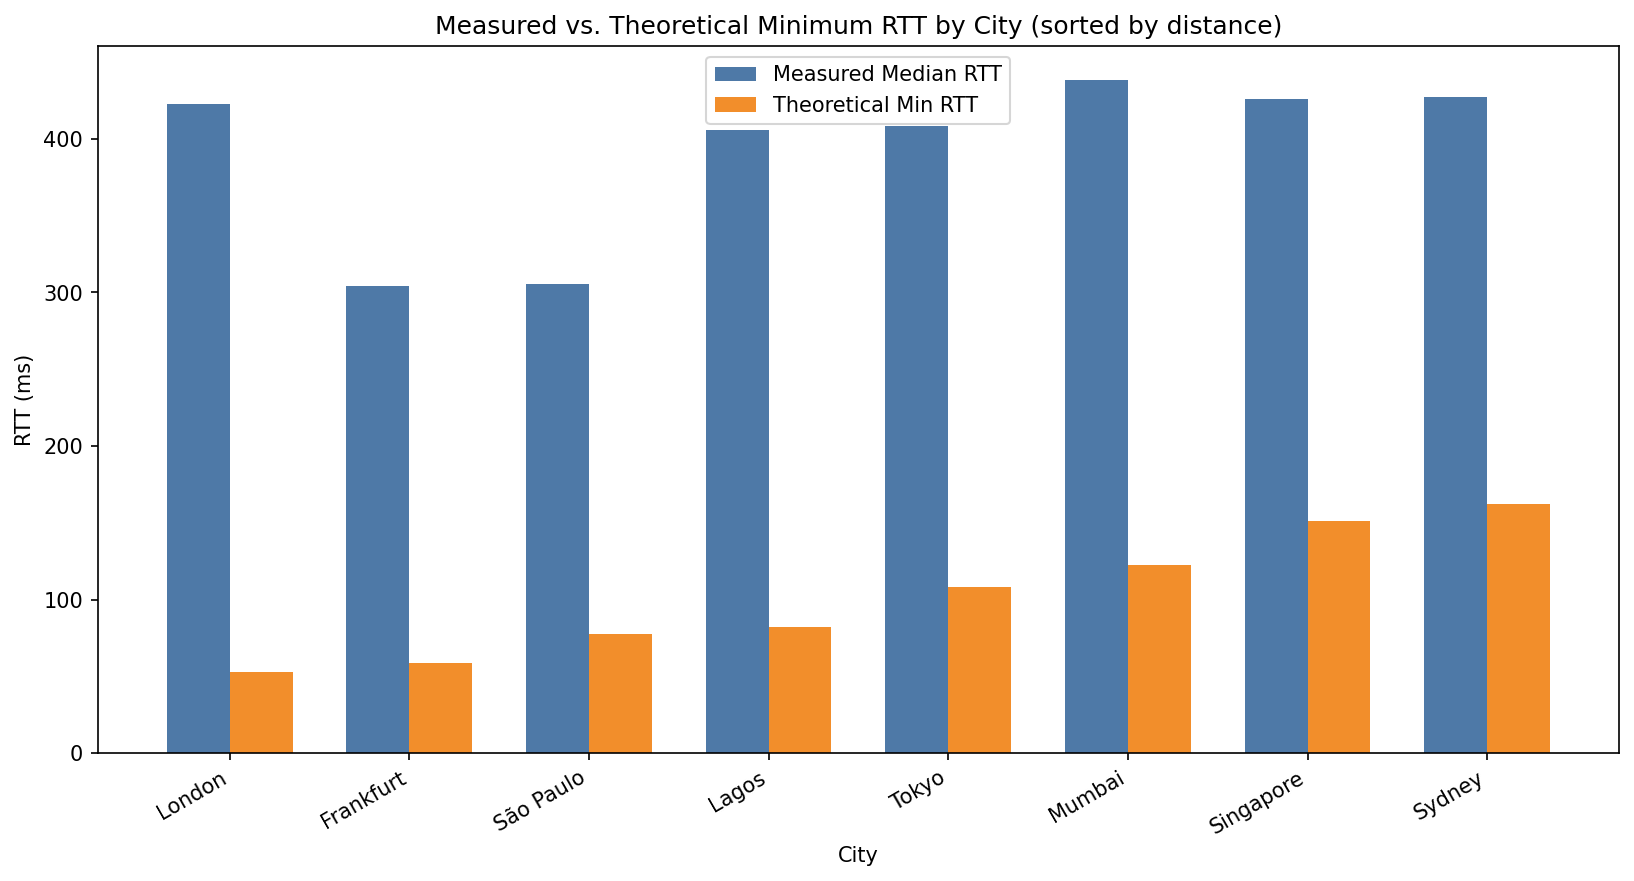
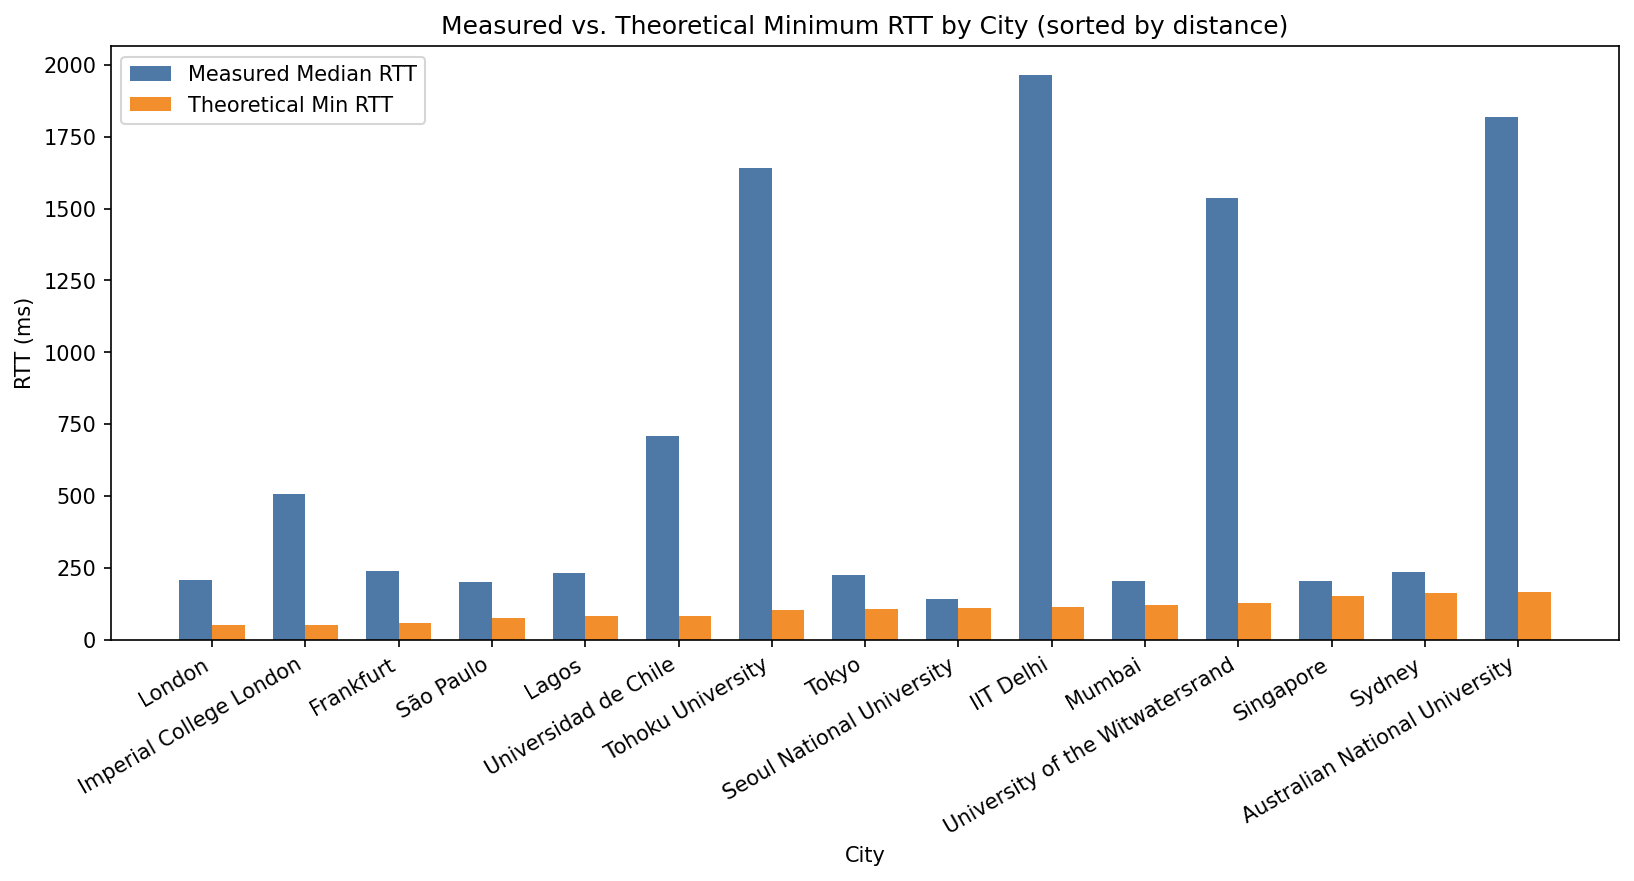
adding university targets

diff --git a/rtt_speedoflight.py b/rtt_speedoflight.py
@@ -25,6 +25,16 @@ TARGETS = {
     "Mumbai":       {"url": "http://www.google.co.in",   "coords": (19.0760,   72.8777), "continent": "Asia"},
     "London":       {"url": "http://www.google.co.uk",   "coords": (51.5074,   -0.1278), "continent": "Europe"},
     "Singapore":    {"url": "http://www.google.com.sg",  "coords": (1.3521,   103.8198), "continent": "Asia"},
+    
+    # Add Universities
+    "Tohoku University":              {"url": "http://www.tohoku.ac.jp",  "coords": (38.2682,  140.8694), "continent": "Asia"},
+    "Seoul National University":      {"url": "http://www.snu.ac.kr",     "coords": (37.5665,  126.9780), "continent": "Asia"},
+    "IIT Delhi":                      {"url": "http://www.iitd.ac.in",    "coords": (28.6139,   77.2090), "continent": "Asia"},
+    "Universidad de Chile":           {"url": "http://www.uchile.cl",     "coords": (-33.4489, -70.6693), "continent": "S. America"},
+    "University of the Witwatersrand":{"url": "http://www.wits.ac.za",    "coords": (-26.2041,  28.0473), "continent": "Africa"},
+    "Freie Universität Berlin":       {"url": "http://www.fu-berlin.de",  "coords": (52.5200,   13.4050), "continent": "Europe"},
+    "Imperial College London":        {"url": "http://www.imperial.ac.uk","coords": (51.5074,   -0.1278), "continent": "Europe"},
+    "Australian National University": {"url": "http://www.anu.edu.au",    "coords": (-35.2809, 149.1300), "continent": "Oceania"},
 }
 
 PROBES           = 15

diff --git a/analysis.md b/analysis.md
@@ -2,15 +2,17 @@
 
 ## Q1: Highest Inefficiency Ratio
 
-Lagos, Nigeria had the highest inefficiency ratio in my measurements. Looking up Lagos on [submarinecablemap.com](https://submarinecablemap.com), the cables serving West Africa include: SAT-3/WASC, MainOne, ACE (Africa Coast to Europe), WACS (West Africa Cable System). 
+Frankfurt (google.de) had the highest inefficiency ratio for **city**. Despite transatlantic fiber being well-developed, traffic from Somerville to Frankfurt still traverses multiple backbone segments and exchange points across the Atlantic and into Europe, adding significant queuing and routing overhead relative to the short great-circle distance of ~5,900 km.
 
-All of these cables land Lagos traffic in Europe first, adding thousands of kilometers to what could be a more direct Atlantic route. This continental detour directly explains the high inefficiency ratio.
+Including universities, IIT Delhi had the highest overall inefficiency ratio. Unlike the Google targets, IIT Delhi is a real university server accessed through the public internet. Traffic from Somerville to IIT Delhi most likely traverses a transatlantic cable to Europe, then an undersea cable through the Middle East before reaching India, accumulating queuing and propagation delay across multiple ISPs and exchange points. The result is nearly 2,000 ms measured against a theoretical minimum of ~115 ms.
 
 ---
 
 ## Q2: Closest to Theoretical Minimum
 
-Frankfurt, Germany was closest to the theoretical minimum in my measurements. The low inefficiency ratio signals that the routing infrastructure is mature, well-provisioned, and routes traffic close to the physical optimum.
+Sydney (google.com.au) was closest **city** to the theoretical minimum in my measurements, with a ratio of approximately 1.0. The Southern Cross Cable provides a well-developed direct trans-Pacific route between the US East Coast and Australia, and Google's CDN places an edge node in Sydney, so packets travel nearly the great-circle path with minimal detours. 
+
+Including Universities, Seoul National University (snu.ac.kr) was closest to the theoretical minimum for all of my measurement. Korea has excellent trans-Pacific fiber connectivity with low-latency routes to the US East Coast, and Seoul National University's well-peered network infrastructure means packets travel a near-optimal path with minimal queuing or detours.
 
 ---
 
